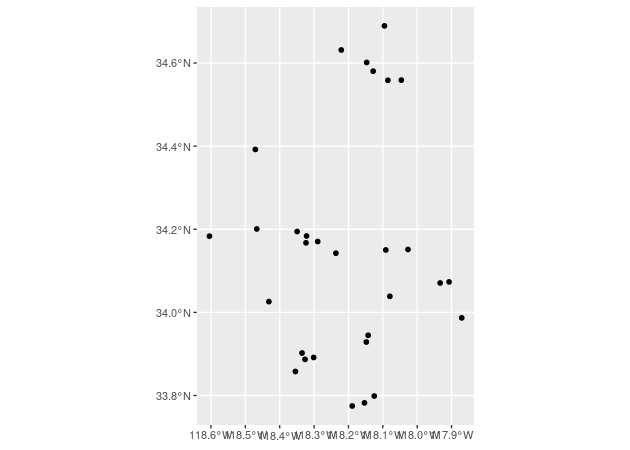
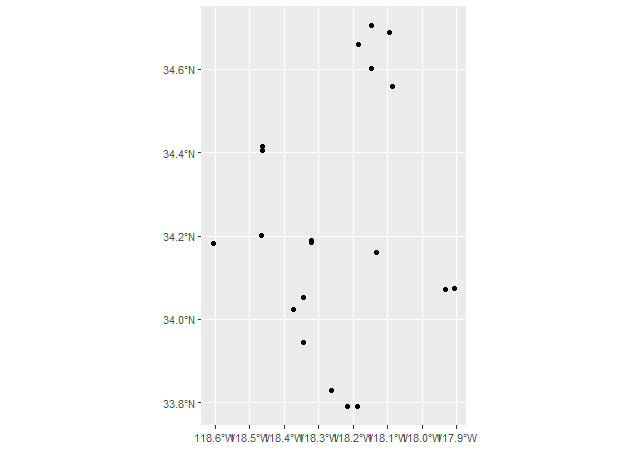
Update README

diff --git a/README.md b/README.md
@@ -125,7 +125,7 @@ With `nominatimlite` you can extract spatial objects easily:
 # Extract some points - McDonalds in Los Angeles
 
 McDonalds <- geo_lite_sf("McDonalds, Los Angeles, CA",
-  limit = 30,
+  limit = 20,
   custom_query = list(countrycodes = "us")
 )
 
@@ -140,13 +140,10 @@ ggplot(McDonalds) +
 You can also extract polygons using the option `polygon = TRUE`:
 
 ``` r
-Central_Park <- geo_lite_sf("Central Park, NY",
-  full_results = TRUE,
-  polygon = TRUE
-)
+pentagon_poly <- geo_lite_sf("Pentagon", polygon = TRUE)
 
-ggplot(Central_Park) +
+ggplot(pentagon_poly) +
   geom_sf()
 ```
 
-<img src="man/figures/README-central_park-1.png" width="100%" />
+<img src="man/figures/README-penta-1.png" width="100%" />
